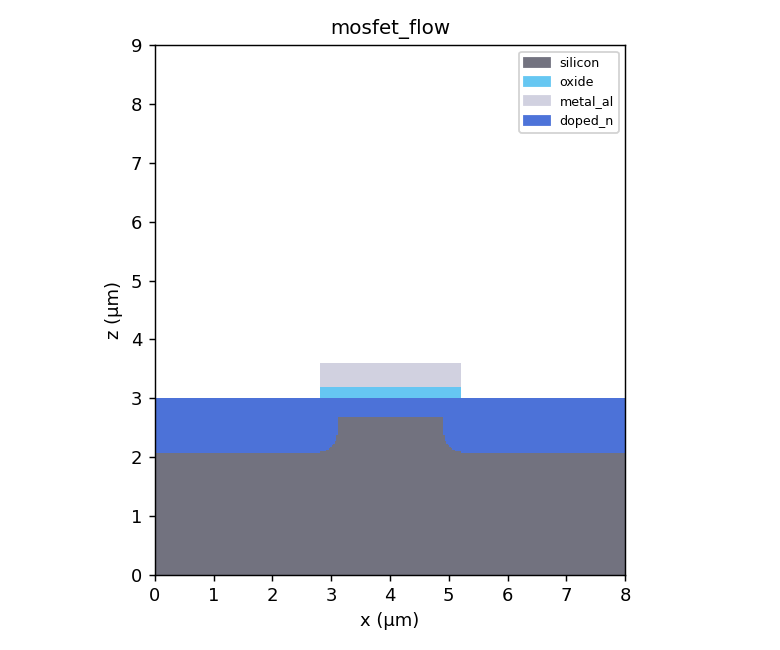
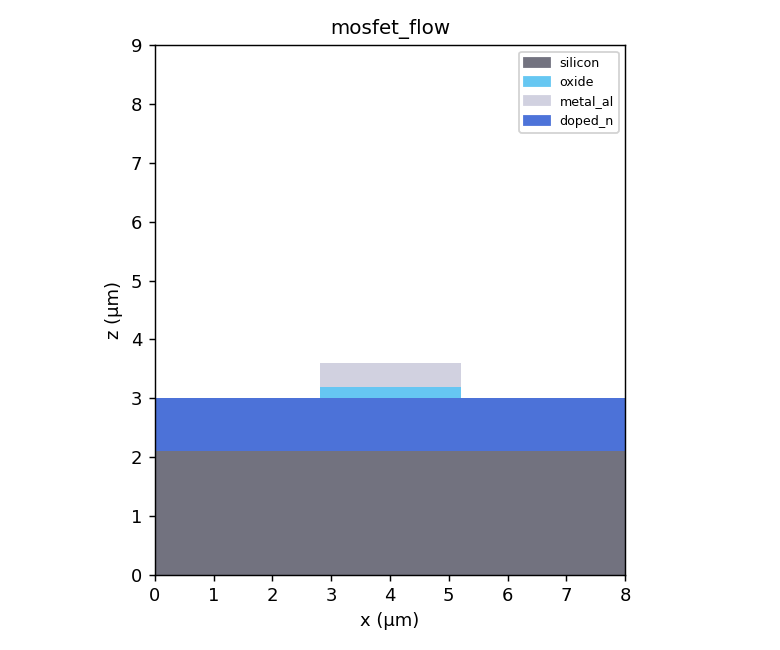
IMPLANTガウス濃度プロファイルとOXIDE消費比のパラメータ化
- Implant: 縦/横ストラグルのガウス濃度プロファイル化。lateral_straggle_um で
  マスク端の下へ回り込む横散乱、threshold で注入帯の等高線を制御。
  横散乱はシリコン表面基準の3D濃度を面内ガウスでにじませて再現
- Oxidation: consume_fraction で Si 消費比をパラメータ化（既定0.45）
- tests: 物理プロファイル7件を追加（注入帯中心/しきい値/横散乱/消費比/roundtrip）
- README: パラメータ表を更新、ギャラリー(implant/mosfet)を再生成

Changed region(s): [[0.4, 0.6154, 0.5846, 0.7077]]

diff --git a/semisim/processes.py b/semisim/processes.py
@@ -534,6 +534,8 @@ class Oxidation(Process):
     label = "熱酸化"
 
     thickness_um: float = 0.3
+    # 生成 SiO2 厚に対し消費される Si の割合（Deal-Grove の体積膨張比に由来、約 0.45）。
+    consume_fraction: float = 0.45
 
     def summary(self) -> str:
         return f"OXIDE  酸化膜{self.thickness_um:.2f}µm成長"
@@ -547,9 +549,10 @@ class Oxidation(Process):
         # ドープされたシリコンも熱酸化される（物理的に正しい）。
         si_like = [si_id, materials.BY_NAME["doped_n"].id, materials.BY_NAME["doped_p"].id]
         total = wafer.um_to_vox(self.thickness_um)
-        # 熱酸化の体積則: 生成 SiO2 厚の約 45% 分の Si が消費され、残り約 55%
-        # が元の Si 表面より上方へ成長する（Deal-Grove の体積膨張比に由来）。
-        consume = max(0, int(round(total * 0.45)))
+        # 熱酸化の体積則: 生成 SiO2 厚の consume_fraction 分の Si が消費され、
+        # 残りが元の Si 表面より上方へ成長する（Deal-Grove の体積膨張比に由来）。
+        frac = float(np.clip(self.consume_fraction, 0.0, 0.95))
+        consume = max(0, int(round(total * frac)))
         grow = max(1, total - consume)
 
         # 露出シリコン（ドープ含む）列のみ酸化
@@ -580,13 +583,17 @@ class Oxidation(Process):
         grid[deposit] = ox_id
 
     def params_dict(self) -> dict:
-        return {"thickness_um": self.thickness_um}
+        return {
+            "thickness_um": self.thickness_um,
+            "consume_fraction": self.consume_fraction,
+        }
 
     @classmethod
     def _from_params(cls, d: dict) -> Oxidation:
-        return cls(thickness_um=float(d.get("thickness_um", 0.3)))
-
-
+        return cls(
+            thickness_um=float(d.get("thickness_um", 0.3)),
+            consume_fraction=float(d.get("consume_fraction", 0.45)),
+        )
 # === IMPLANT（イオン注入）==================================================
 @register
 @dataclass
@@ -594,7 +601,13 @@ class Implant(Process):
     """イオン注入。投影飛程 Rp を中心としたガウス的な深さ分布で埋込ドープする。
 
     range_um (Rp): 表面からの投影飛程。
-    straggle_um (ΔRp): 飛程のばらつき（標準偏差）。±1.5σ の帯を注入領域とする。
+    straggle_um (ΔRp): 飛程のばらつき（縦方向標準偏差）。
+    lateral_straggle_um: 横方向のばらつき（マスク端での横散乱）。
+    threshold: ピーク濃度に対する変換しきい値（0–1）。既定 0.3247 は
+        縦方向ガウスの ±1.5σ 等高線に相当する。
+    ガウス濃度プロファイル C(z) = exp(-(depth-Rp)^2 / 2σ^2) を計算し、
+    マスク端では横方向ガウスでにじませた被覆率を掛ける。C >= threshold の
+    シリコン（既ドープ含む）ボクセルをドーパントへ変換する。
     レジストで覆われた列はイオンが止められ、下地は保護される。
     """
 
@@ -604,6 +617,8 @@ class Implant(Process):
     dopant: str = "doped_n"
     range_um: float = 0.4
     straggle_um: float = 0.1
+    lateral_straggle_um: float = 0.0
+    threshold: float = 0.3247  # exp(-1.5^2 / 2): ±1.5σ 等高線
 
     def summary(self) -> str:
         m = materials.get(self.dopant)
@@ -614,25 +629,43 @@ class Implant(Process):
         grid = wafer.grid
         nz, ny, nx = grid.shape
         si_id = materials.BY_NAME["silicon"].id
+        dn_id = materials.BY_NAME["doped_n"].id
+        dp_id = materials.BY_NAME["doped_p"].id
         dop_id = materials.get(self.dopant).id
         rp = wafer.um_to_vox(self.range_um)
-        sigma = max(1, wafer.um_to_vox(max(self.straggle_um, 1e-6)))
-        band = int(round(1.5 * sigma))  # ±1.5σ の注入帯
-        lo_d = max(0, rp - band)
-        hi_d = rp + band
+        sigma = max(1.0, float(wafer.um_to_vox(max(self.straggle_um, 1e-6))))
+        thr = float(np.clip(self.threshold, 1e-6, 1.0))
+
+        si_like = [si_id, dn_id, dp_id]
+        sil_mask = np.isin(grid, si_like)
+        any_si = sil_mask.any(axis=0)
+        # シリコン系の上面 z（レジスト等が上に乗っていてもその下のシリコン表面）
+        sil_surface = (nz - 1) - np.argmax(sil_mask[::-1, :, :], axis=0)
+        sil_surface = np.where(any_si, sil_surface, -1)
 
         z_top, top_id = _top_material(wafer)
         resist_ids = [m.id for m in materials.all_materials() if m.is_resist]
-        eligible = (z_top >= 0) & ~np.isin(top_id, resist_ids)  # (ny, nx)
+        # 列ごとの被覆率（1=露出してイオンが入射, 0=レジスト等で遮蔽）
+        cover = ((z_top >= 0) & ~np.isin(top_id, resist_ids)).astype(float)
 
+        # 縦方向ガウス濃度（シリコン表面基準）。露出列のみ線源を持つ。
         z_idx = np.arange(nz)[:, None, None]
-        depth_below = z_top[None, :, :] - z_idx  # 表面からの深さ(vox)
-        in_band = (depth_below >= lo_d) & (depth_below <= hi_d)
-        # シリコン（および既ドープ）を注入帯の範囲で変換する
-        convertible = (grid == si_id) | (grid == materials.BY_NAME["doped_n"].id) | (
-            grid == materials.BY_NAME["doped_p"].id
-        )
-        implant = in_band & convertible & eligible[None, :, :]
+        depth_si = sil_surface[None, :, :] - z_idx  # シリコン表面からの深さ vox
+        vert = np.exp(-((depth_si - rp) ** 2) / (2.0 * sigma * sigma))
+        vert[depth_si < 0] = 0.0
+        vert[np.broadcast_to(sil_surface[None, :, :] < 0, vert.shape)] = 0.0
+        conc = vert * cover[None, :, :]  # 規格化ガウス濃度（ピーク=1）
+
+        # 横方向ストラグル: 面内ガウスで濃度をにじませ、マスク端の下へ回り込む
+        sig_lat = float(wafer.um_to_vox(max(self.lateral_straggle_um, 0.0)))
+        if sig_lat > 0:
+            conc = ndimage.gaussian_filter(
+                conc, sigma=(0.0, sig_lat, sig_lat), mode="nearest"
+            )
+
+        # シリコン（および既ドープ）を濃度しきい値で変換
+        convertible = np.isin(grid, si_like)
+        implant = (conc >= thr) & convertible
         grid[implant] = dop_id
 
     def params_dict(self) -> dict:
@@ -640,6 +673,8 @@ class Implant(Process):
             "dopant": self.dopant,
             "range_um": self.range_um,
             "straggle_um": self.straggle_um,
+            "lateral_straggle_um": self.lateral_straggle_um,
+            "threshold": self.threshold,
         }
 
     @classmethod
@@ -648,6 +683,8 @@ class Implant(Process):
             dopant=d.get("dopant", "doped_n"),
             range_um=float(d.get("range_um", 0.4)),
             straggle_um=float(d.get("straggle_um", 0.1)),
+            lateral_straggle_um=float(d.get("lateral_straggle_um", 0.0)),
+            threshold=float(d.get("threshold", 0.3247)),
         )
 
 

diff --git a/tests/test_physics_profiles.py b/tests/test_physics_profiles.py
@@ -1,0 +1,116 @@
+"""IMPLANT ガウスプロファイルと OXIDE 消費比のパラメータ化テスト。"""
+from __future__ import annotations
+
+import numpy as np
+
+from semisim import materials
+from semisim.masks import Mask, Shape
+from semisim.processes import Implant, Oxidation, Photo
+from semisim.recipe import Recipe
+
+
+def _doped_depth_profile(wafer, dopant="doped_n"):
+    """中央列におけるドープボクセルの z 集合を返す。"""
+    dop = materials.get(dopant).id
+    cx = wafer.config.nx // 2
+    cy = wafer.config.ny // 2
+    col = wafer.grid[:, cy, cx]
+    return np.flatnonzero(col == dop)
+
+
+def test_implant_gaussian_peaks_near_range(wafer):
+    """ガウスプロファイルのドープ帯の中心が投影飛程付近にある。"""
+    cfg = wafer.config
+    Implant(dopant="doped_n", range_um=0.6, straggle_um=0.15).apply(wafer)
+    zs = _doped_depth_profile(wafer)
+    assert zs.size > 0
+    z_top = wafer.top_surface_z()
+    cx, cy = cfg.nx // 2, cfg.ny // 2
+    surface = z_top[cy, cx]
+    center_depth_vox = surface - float(zs.mean())
+    expected = wafer.um_to_vox(0.6)
+    # 帯の中心深さが Rp の ±2 ボクセル以内
+    assert abs(center_depth_vox - expected) <= 2
+
+
+def test_implant_lower_threshold_widens_band(wafer):
+    cfg = wafer.config
+    high = Recipe(config=cfg)
+    high.add(Implant(dopant="doped_n", range_um=0.5, straggle_um=0.2, threshold=0.6))
+    low = Recipe(config=cfg)
+    low.add(Implant(dopant="doped_n", range_um=0.5, straggle_um=0.2, threshold=0.1))
+    dop = materials.get("doped_n").id
+    n_high = int((high.simulate().grid == dop).sum())
+    n_low = int((low.simulate().grid == dop).sum())
+    # しきい値を下げると注入帯が広くなる
+    assert n_low > n_high
+
+
+def test_implant_lateral_straggle_spreads_under_mask(wafer):
+    """横方向ストラグルでマスク端の下にドープがにじむ。"""
+    cfg = wafer.config
+    mask = Mask(shapes=[Shape("rect", {"x0": 0.4, "y0": 0.0, "x1": 0.6, "y1": 1.0})])
+    x0 = int(0.4 * cfg.nx)
+    x1 = int(0.6 * cfg.nx)
+
+    def stripe_dopant(lat):
+        r = Recipe(config=cfg)
+        r.add(Photo(mask=mask, thickness_um=0.6, polarity="negative"))
+        r.add(
+            Implant(
+                dopant="doped_n",
+                range_um=0.3,
+                straggle_um=0.1,
+                lateral_straggle_um=lat,
+            )
+        )
+        w = r.simulate()
+        dop = materials.get("doped_n").id
+        # マスク直下（被覆ストライプ）の列にあるドープボクセル数
+        return int((w.grid[:, :, x0:x1] == dop).sum())
+
+    no_lat = stripe_dopant(0.0)
+    with_lat = stripe_dopant(0.3)
+    # 横散乱なし: レジスト直下は完全に保護され 0
+    assert no_lat == 0
+    # 横散乱あり: マスク端からにじんでドープが入り込む
+    assert with_lat > 0
+
+
+def test_implant_params_roundtrip():
+    p = Implant(
+        dopant="doped_p",
+        range_um=0.5,
+        straggle_um=0.2,
+        lateral_straggle_um=0.1,
+        threshold=0.25,
+    )
+    r = Implant._from_params(p.params_dict())
+    assert r.dopant == "doped_p"
+    assert r.range_um == 0.5
+    assert r.lateral_straggle_um == 0.1
+    assert r.threshold == 0.25
+
+
+def test_oxidation_consume_fraction_affects_silicon(wafer):
+    """消費比を上げるほどシリコン消費量が増える。"""
+    cfg = wafer.config
+    si = materials.get("silicon").id
+
+    def si_count(frac):
+        r = Recipe(config=cfg)
+        r.add(Oxidation(thickness_um=0.5, consume_fraction=frac))
+        return int((r.simulate().grid == si).sum())
+
+    base = int((wafer.grid == si).sum())
+    low = si_count(0.2)
+    high = si_count(0.8)
+    # どちらもシリコンを消費し、消費比が高いほど残存シリコンが少ない
+    assert high < low < base
+
+
+def test_oxidation_params_roundtrip():
+    o = Oxidation(thickness_um=0.4, consume_fraction=0.6)
+    r = Oxidation._from_params(o.params_dict())
+    assert r.thickness_um == 0.4
+    assert r.consume_fraction == 0.6

diff --git a/README.md b/README.md
@@ -105,9 +105,9 @@ py tools\render_gallery.py
 | DRY | ドライエッチ | 異方性エッチ（垂直・オーバーエッチ対応） |
 | WET | ウェットエッチ | 等方エッチ（アンダーカット） |
 | DIFFUSION | 拡散 | 表面からの不純物拡散 |
-| IMPLANT | イオン注入 | 投影飛程＋ストラグルのガウス分布で埋込ドープ |
+| IMPLANT | イオン注入 | 投影飛程＋縦/横ストラグルのガウス濃度分布で埋込ドープ |
 | ANNEAL | アニール | ドーパントのドライブイン（等方再分布） |
-| OXIDE | 熱酸化 | 露出 Si を消費し SiO₂ 成長（45/55 則） |
+| OXIDE | 熱酸化 | 露出 Si を消費し SiO₂ 成長（消費比は可変、既定 45/55 則） |
 | EPI | エピ成長 | 露出シリコン上のみに選択的単結晶成長 |
 | KOH | 異方性ウェット | 結晶面に沿った斜め側壁（V 溝・台形） |
 | FILL | 埋込（ダマシン） | 開口・トレンチをボトムアップで金属充填 |
@@ -127,9 +127,9 @@ py tools\render_gallery.py
 | PVD | `step_coverage` | 0=完全シャドーイング（窪み底に成膜されない）/ 1=完全コンフォーマル。窪み深さに比例して膜厚を減衰 |
 | DRY | `overetch_pct` | ターゲット枯渇後に下層を削る割合（%）。0 で下層を保護 |
 | WET | `targets` | エッチ対象材料。障壁材料は貫通しない（前線伝播でアンダーカット再現） |
-| IMPLANT | `range_um` / `straggle_um` | 投影飛程 Rp とばらつき ΔRp。Rp±1.5σ の帯を埋込ドープ。レジスト下は遮蔽 |
+| IMPLANT | `range_um` / `straggle_um` / `lateral_straggle_um` / `threshold` | 投影飛程 Rp と縦/横ストラグルのガウス濃度分布。`threshold`（既定 ±1.5σ 相当）以上を埋込ドープ。横ストラグルでマスク端の下へ回り込む。レジスト下は遮蔽 |
 | ANNEAL | `depth_um` | ドライブイン量。ユークリッド距離で等方（真円状）に拡散 |
-| OXIDE | `thickness_um` | 生成 SiO₂ 厚。約 45% 分の Si を消費し 55% を上方成長（Deal–Grove 体積比）。ドープ Si も酸化 |
+| OXIDE | `thickness_um` / `consume_fraction` | 生成 SiO₂ 厚と Si 消費割合（既定 0.45）。残りを上方成長（Deal–Grove 体積比）。ドープ Si も酸化 |
 | KOH | `side_wall_angle_deg` | 結晶面に沿う側壁角（既定 54.7°、(100)Si を想定） |
 | FILL | `overfill_um` | 充填の盛り上げ量。ボトムアップで開口/トレンチを充填 |
 | DRIE | `scallop_pitch_um` | Bosch サイクルに対応するスキャロップ周期 |
